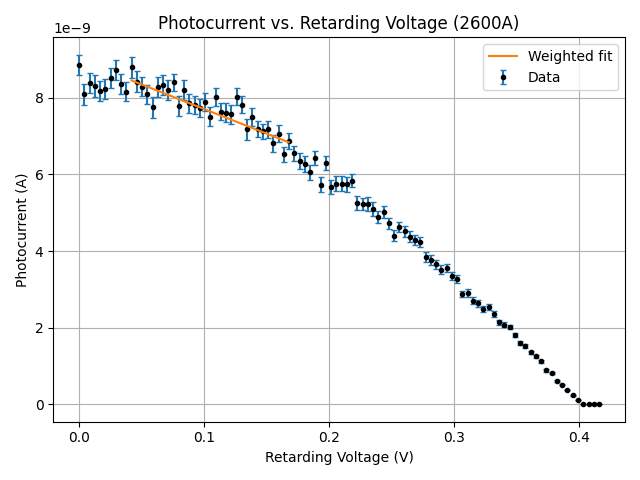
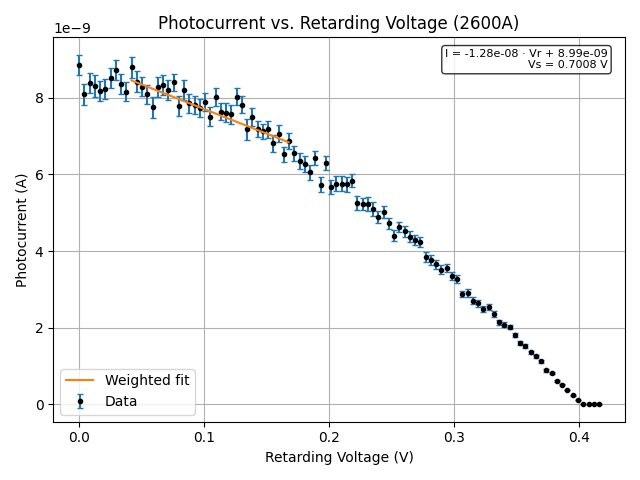
commit with new stuff

Changed region(s): [[0.6875, 0.0938, 0.9688, 0.1875], [0.0938, 0.7812, 0.3125, 0.875]]

diff --git a/Photoelectric Lab/report_plots.py b/Photoelectric Lab/report_plots.py
@@ -52,7 +52,7 @@ def plot_photocurrent_curve(wavelength_key, filename):
     )
     plt.plot(x_line, y_line, label="Weighted fit", zorder=5)
 
-    eq = f"I = {a:.2e} + {b:.2e} · Vr\nVs = {vs:.4f} V"
+    eq = f"I = {b:.2e} · Vr + {a:.2e}\nVs = {vs:.4f} V"
     plt.text(0.97, 0.97, eq, transform=plt.gca().transAxes,
              fontsize=8, verticalalignment='top', horizontalalignment='right',
              bbox=dict(boxstyle='round', facecolor='white', alpha=0.8))
@@ -96,6 +96,13 @@ def plot_final_fit(filename):
         label="Data"
     )
     plt.plot(x_line, y_line, label="Weighted fit", zorder=5)
+
+    e = 1.602176634e-19
+    phi = -e * A
+    eq = f"Vs = {B:.2e} · f + {A:.2e}\nφ = -eA = {phi:.2e} J"
+    plt.text(0.97, 0.97, eq, transform=plt.gca().transAxes,
+             fontsize=8, verticalalignment='top', horizontalalignment='right',
+             bbox=dict(boxstyle='round', facecolor='white', alpha=0.8))
 
     plt.xlabel("Frequency (Hz)")
     plt.ylabel("Stopping Voltage (V)")
